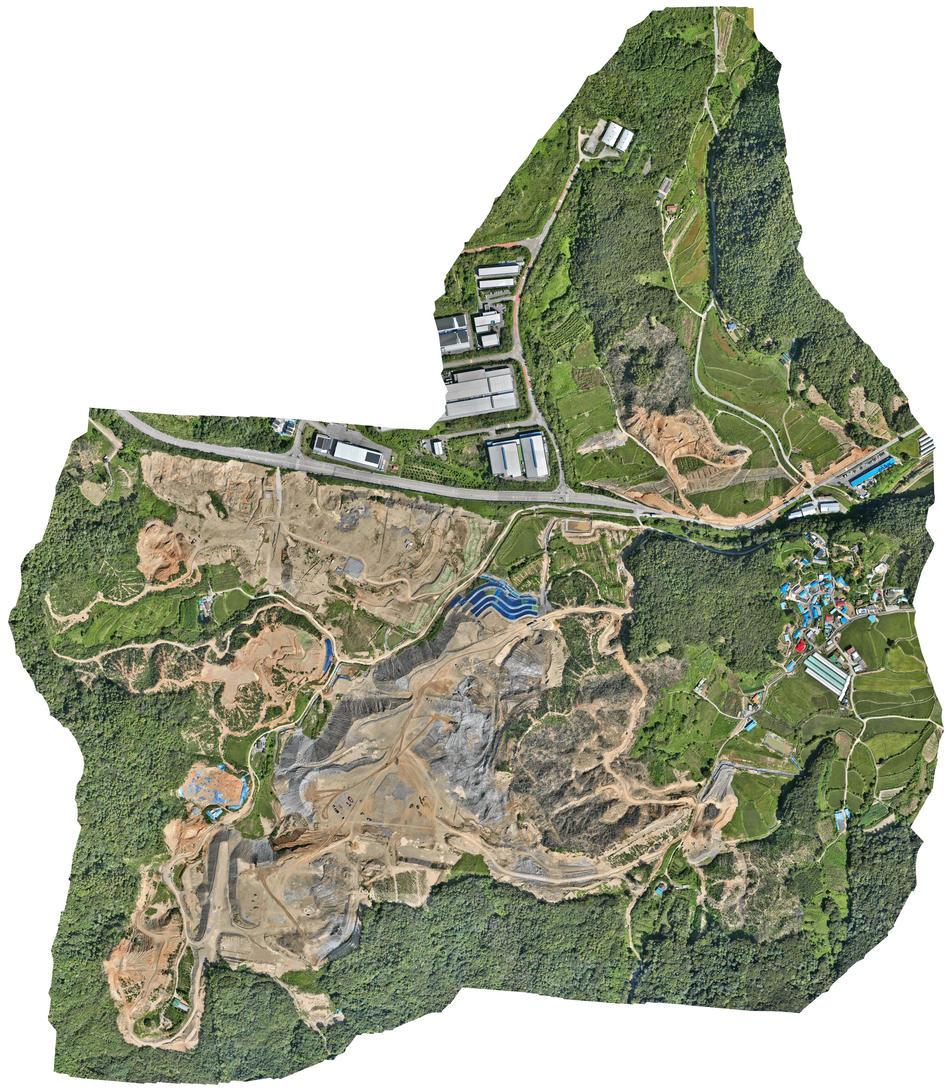
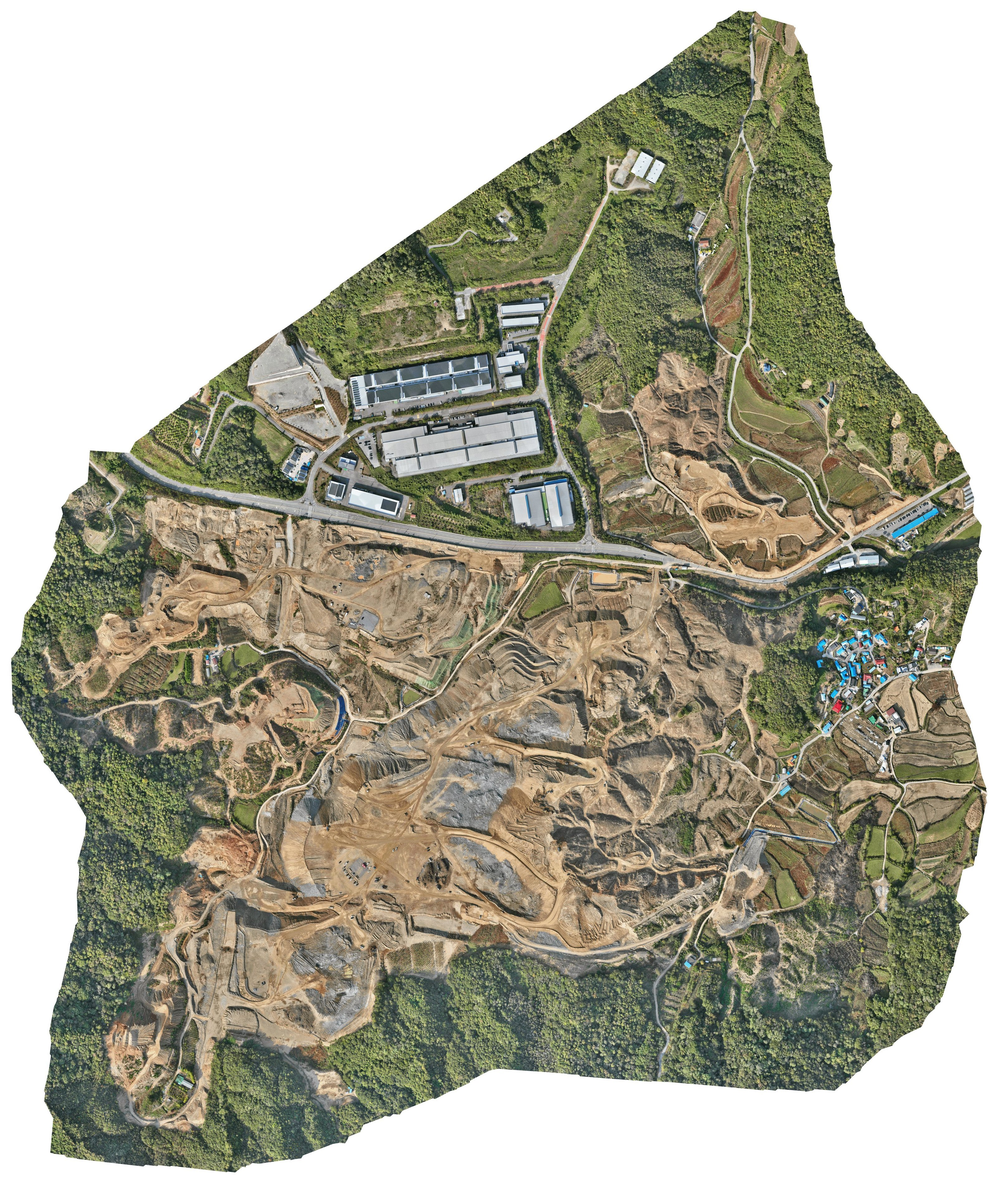
항공사진 이미지 최신자료 적용

diff --git a/app.js b/app.js
@@ -1332,15 +1332,17 @@ function initMap() {
   // 2) IMAGE_BOUNDS: 이미지의 남서(SW)/북동(NE) 모서리 실제 좌표 [lat, lng]를 지정하세요.
   //                  이 좌표에 맞춰 이미지가 지도 위 정확한 위치·크기로 겹쳐집니다.
   //                  (구글맵/카카오맵 등에서 이미지 촬영 범위의 좌상단·우하단 좌표를 확인해 입력)
-  const IMAGE_URL = "assets/site-aerial.jpg";
-  // 드론측량 원본(World File .pgw + 좌표계 .prj)로 정밀 계산한 좌표 (2026-08-25 반영)
-  //   - 원본: 이미지_20cm_260819(저용량).png, 9184×10534px, 픽셀크기 0.2m/px
-  //   - 좌표계: EPSG:5186 (한국 중부원점, KGD2002 Central Belt 2010) → WGS84(EPSG:4326)로 변환
-  //   - .pgw 좌상단 원점(240231.572584, 465724.376351) 기준, 이미지 크기만큼 우하단 좌표를 계산해
-  //     pyproj로 위경도 변환함 (이전의 "두 지점 기준 대략 추정" 방식보다 정확함)
+  const IMAGE_URL = "assets/site-aerial.jpg?v=20261016"; // ?v= 값은 사진을 바꿀 때 같이 바꿔주세요 (브라우저에 남은 예전 사진이 안 보이게 함)
+  // 드론측량 원본(World File .pgw + 좌표계 .prj)로 정밀 계산한 좌표 (2026-10-19 갱신)
+  //   - 원본: 이미지(20cm)_261016(저용량).png, 9112×10761px, 픽셀크기 0.2m/px
+  //   - 좌표계: EPSG:5186 (한국 중부원점, KGD2002 Central Belt 2010)
+  //   - .pgw 좌상단 원점(240244.104093, 465761.58164) 기준
+  //   - 격자 북쪽이 진북과 약 0.28° 어긋나 있어서, 사진 자체를 위경도 기준(북쪽이 위)으로 회전 보정해 만든 파일임.
+  //     그래서 아래 남서/북동 두 모서리 좌표만으로 정확히 겹침 (예전 방식은 이 기울기가 반영 안 돼 가장자리에서 수 m 오차 가능)
+  //   - 웹용 이미지: 원본의 35% 크기(약 3204×3794px), 바깥 여백은 흰색
   const IMAGE_BOUNDS = [
-    [36.770254, 127.450751], // 남서(SW) 모서리
-    [36.789298, 127.471191]  // 북동(NE) 모서리
+    [36.7701519, 127.4507665], // 남서(SW) 모서리
+    [36.7896286, 127.4713022]  // 북동(NE) 모서리
   ];
   const imageLayer = L.imageOverlay(IMAGE_URL, IMAGE_BOUNDS, {
     attribution: "현장 항공사진"
